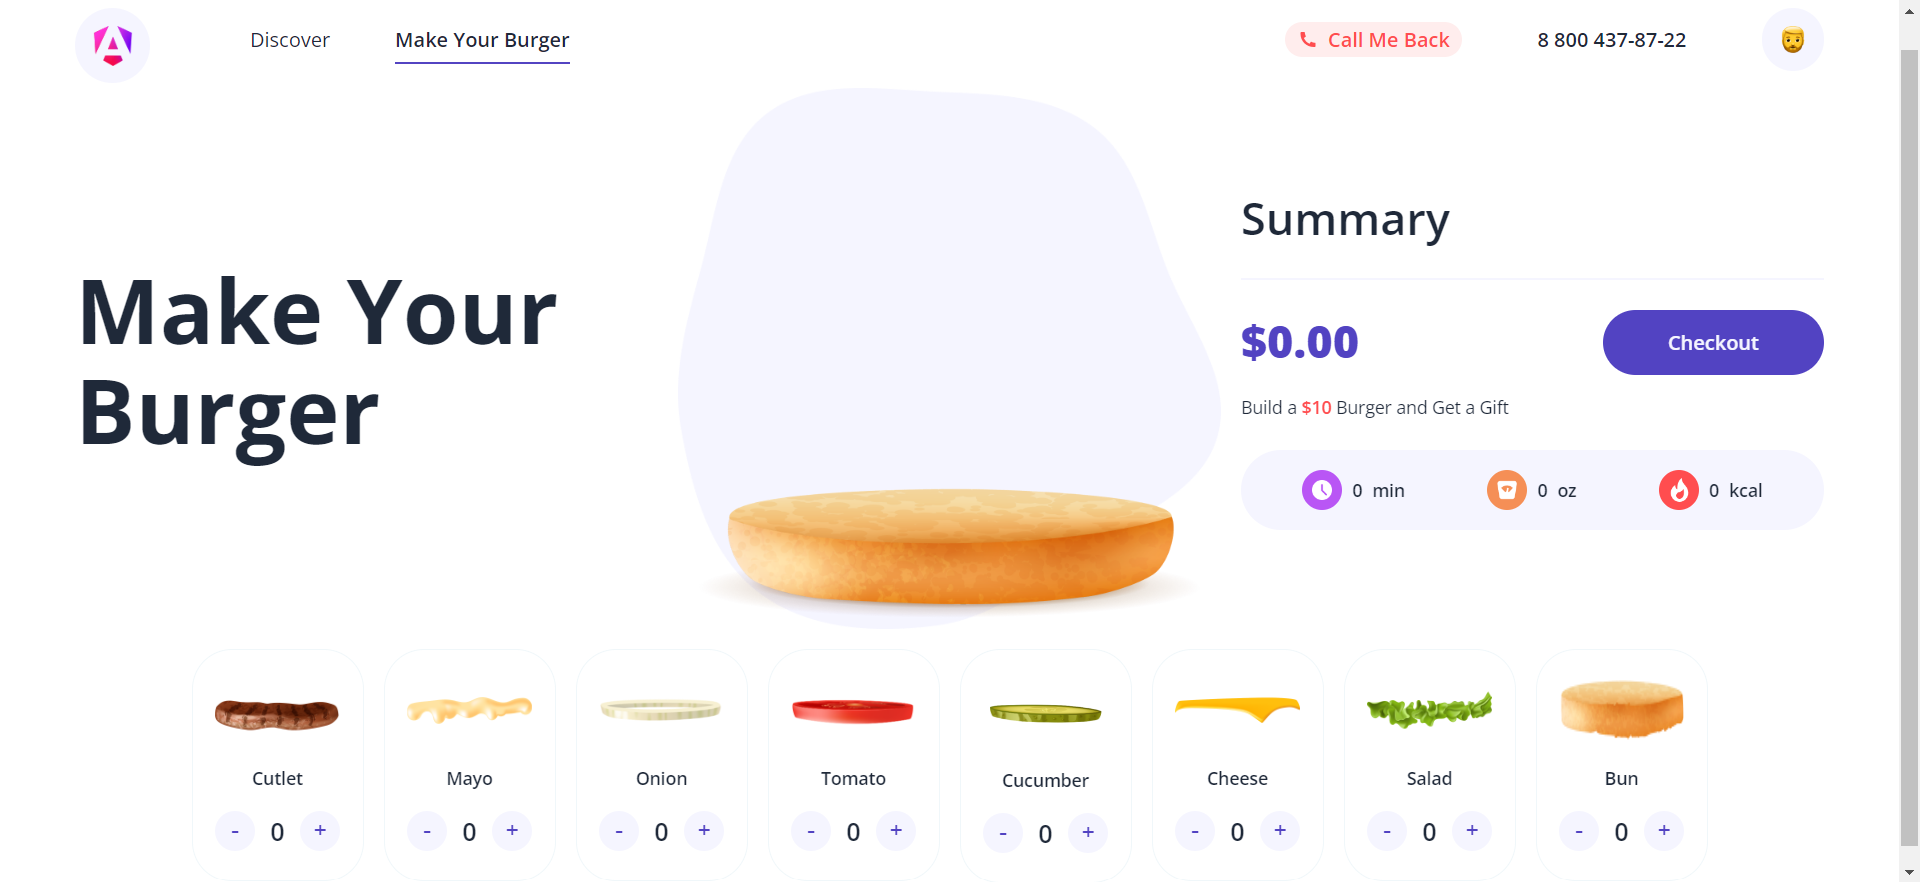
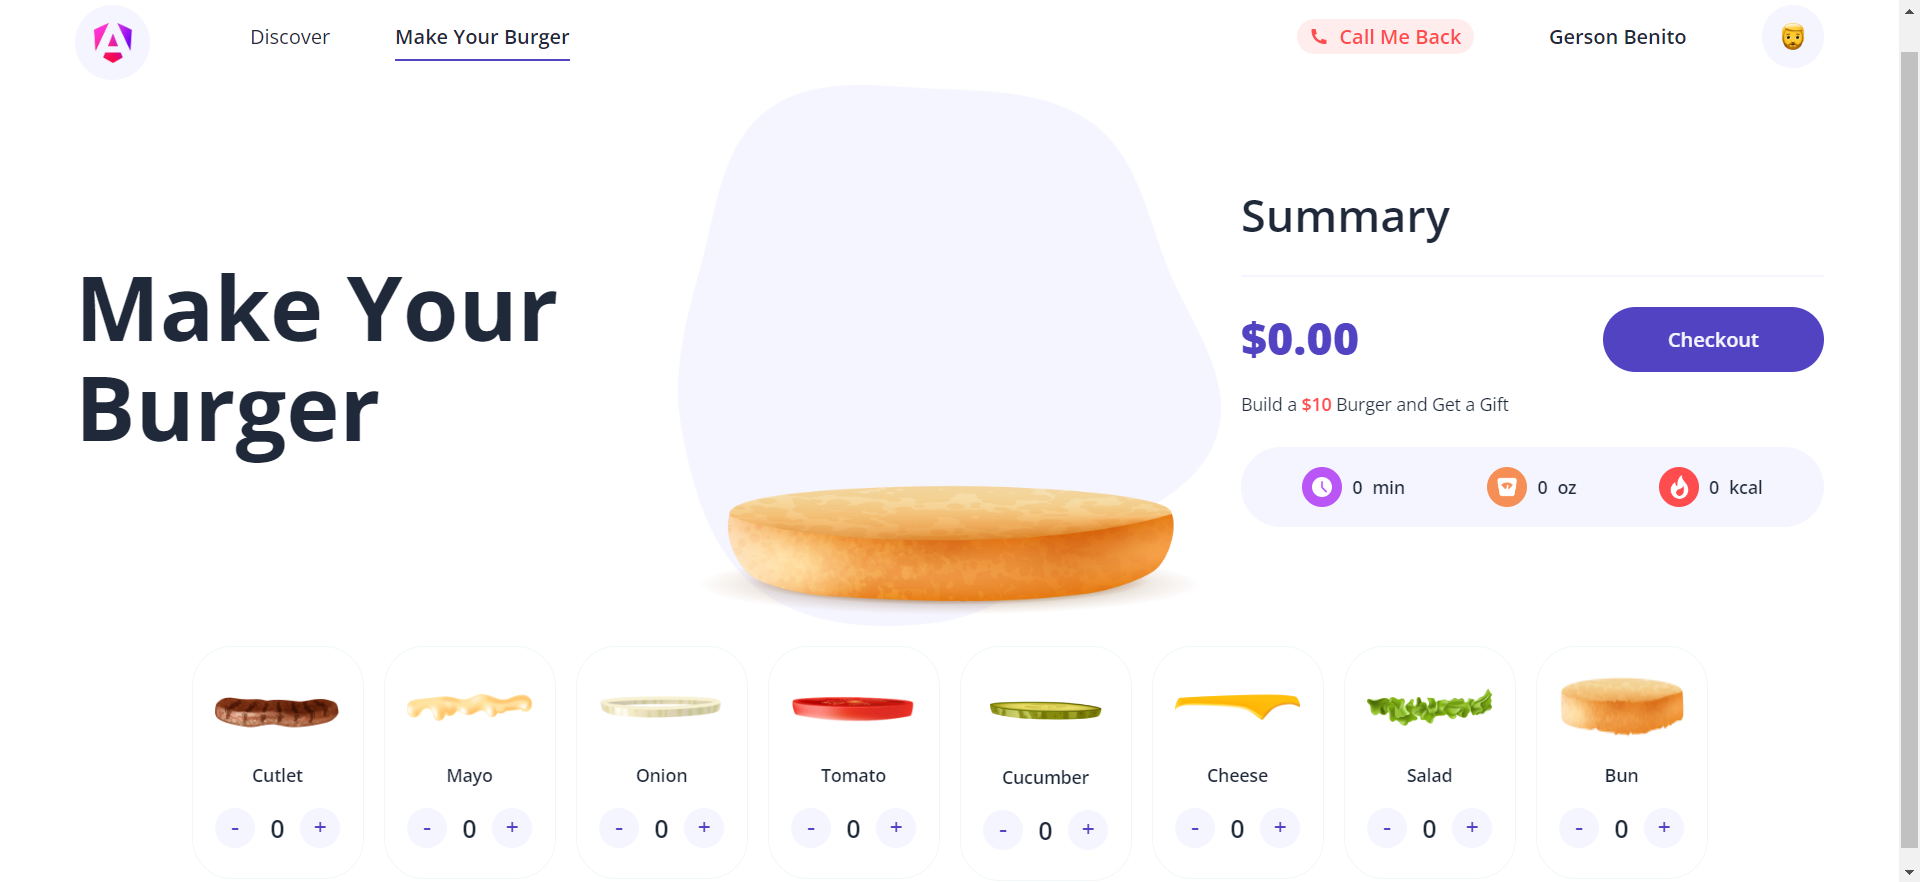
feat: README update

diff --git a/src/app/components/contact/contact.component.html b/src/app/components/contact/contact.component.html
@@ -3,7 +3,7 @@
         <img src="assets/svg/phone.svg" width="16" alt="phone">
         Call Me Back
     </div>
-    <span>8 800 437-87-22</span>
+    <span>Gerson Benito</span>
     <div class="contact_profile">
         <app-avatar width="50" height="50">
             <img src="assets/svg/face.svg" width="22" alt="face">
